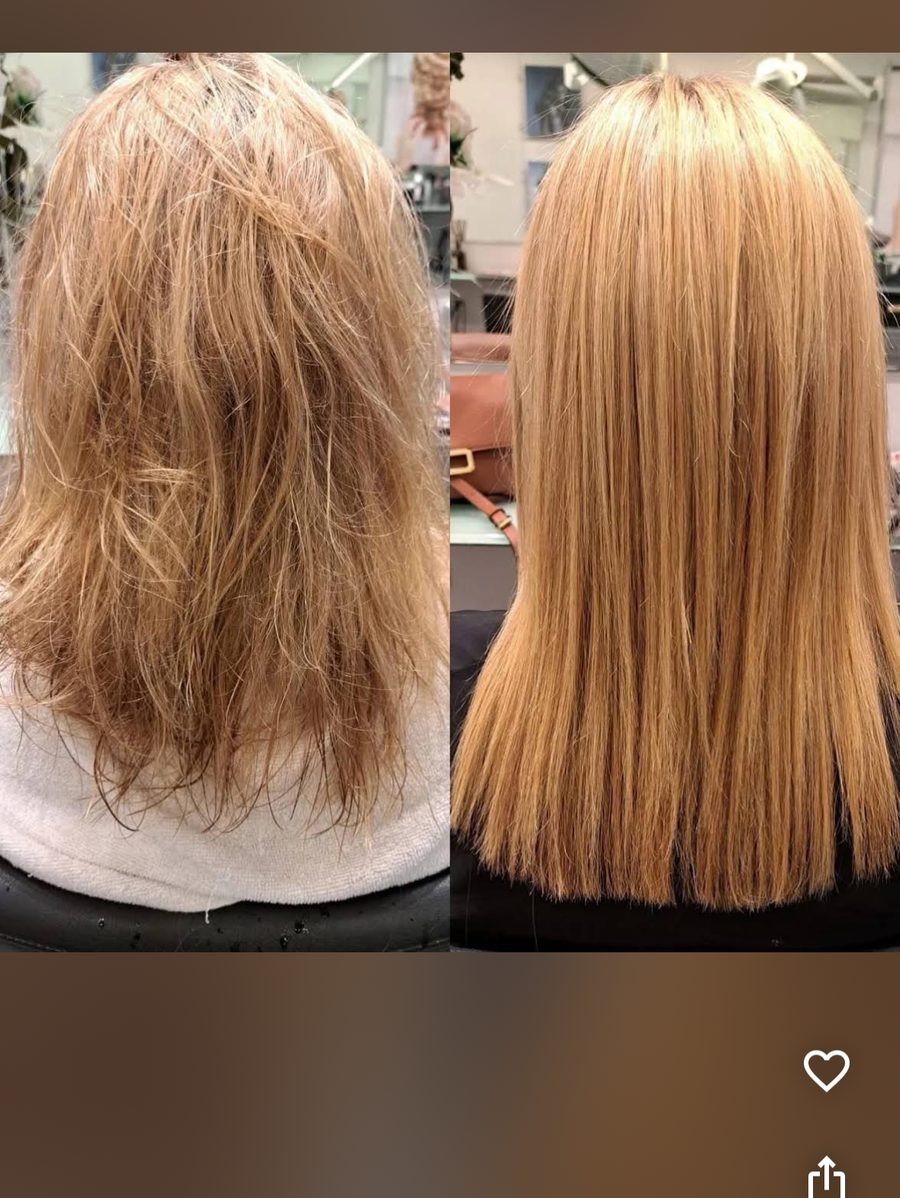
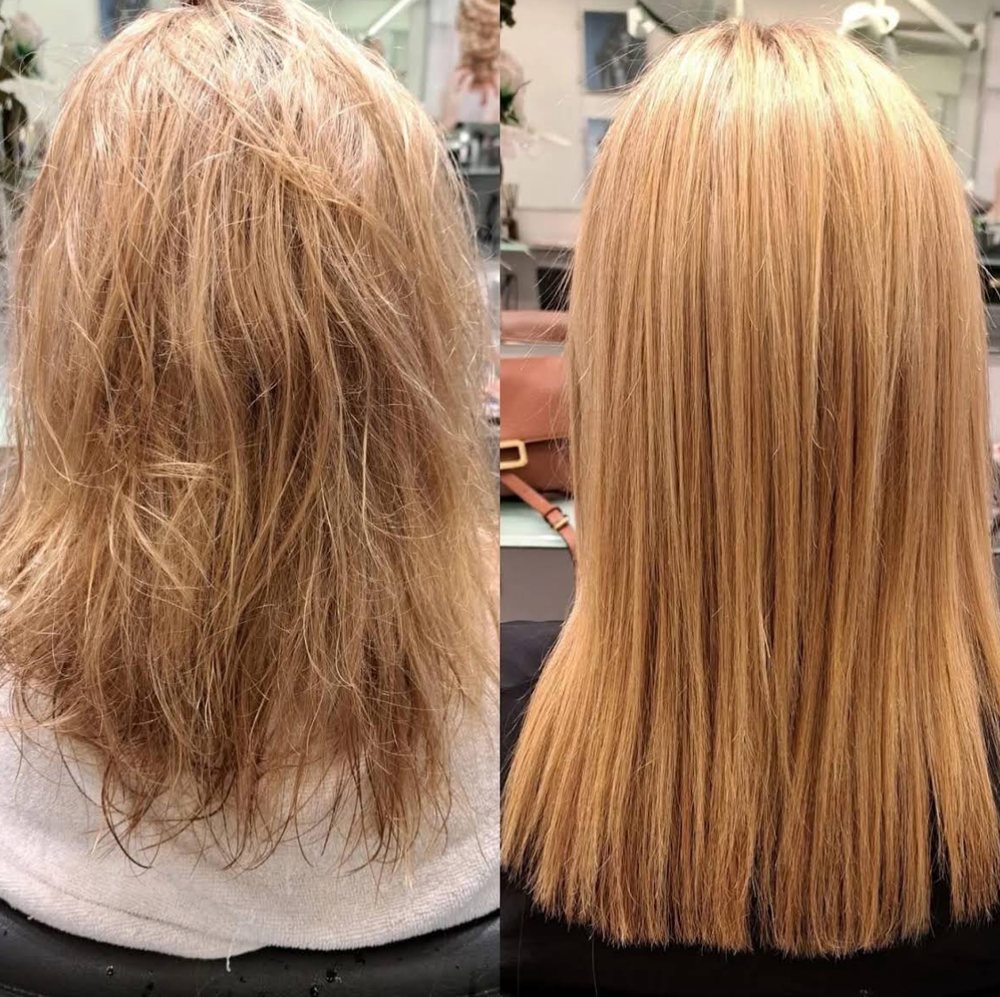
Demo Angy Style: fotos de resultados recortadas y título de galería configurable
Claude-Session: https://claude.ai/code/session_01PMQH1z9t7rrrFjMYiFWUSP

diff --git a/reservas.html b/reservas.html
@@ -117,7 +117,7 @@ function brand(b){const bz=b.business||{},logo=safeImg(bz.logo),hero=safeImg(bz.
   if(logo){const l=document.getElementById('lp');l.innerHTML='<img alt="'+esc(b.name)+'" src="'+esc(logo)+'">';l.hidden=false}
   if(bz.address){const m=document.getElementById('maps');m.href='https://www.google.com/maps/search/?api=1&query='+encodeURIComponent(bz.address);m.hidden=false}
   if(ph.length||bz.address){const s=document.getElementById('local');
-    s.innerHTML='<div class="card"><div class="local"><h2>Nuestro local</h2>'+(ph.length?'<div class="gal">'+ph.map(u=>'<img loading="lazy" alt="Interior de '+esc(b.name)+'" src="'+esc(u)+'">').join('')+'</div>':'')+(bz.address?'<p class="muted" style="margin:12px 0 0">📍 '+esc(bz.address)+(bz.phone?' · 📞 '+esc(bz.phone):'')+'</p>':'')+'</div></div>';s.hidden=false}}
+    s.innerHTML='<div class="card"><div class="local"><h2>'+esc(bz.photosTitle||'Nuestro local')+'</h2>'+(ph.length?'<div class="gal">'+ph.map(u=>'<img loading="lazy" alt="'+esc(bz.photosTitle||'Interior de '+b.name)+'" src="'+esc(u)+'">').join('')+'</div>':'')+(bz.address?'<p class="muted" style="margin:12px 0 0">📍 '+esc(bz.address)+(bz.phone?' · 📞 '+esc(bz.phone):'')+'</p>':'')+'</div></div>';s.hidden=false}}
 function bizIcon(b){try{const ic=(b.business||{}).icon;if(!/^assets\/[a-z0-9_-]+\/[A-Za-z0-9._-]+-$/i.test(String(ic||'')+'-'))return;
   const base=ic.replace(/-\d+\.png$/,'');if(base===ic)return;const o=location.origin+'/';
   document.querySelector('link[rel=apple-touch-icon]').href=o+base+'-180.png';document.querySelector('link[rel=icon]').href=o+base+'-192.png';
